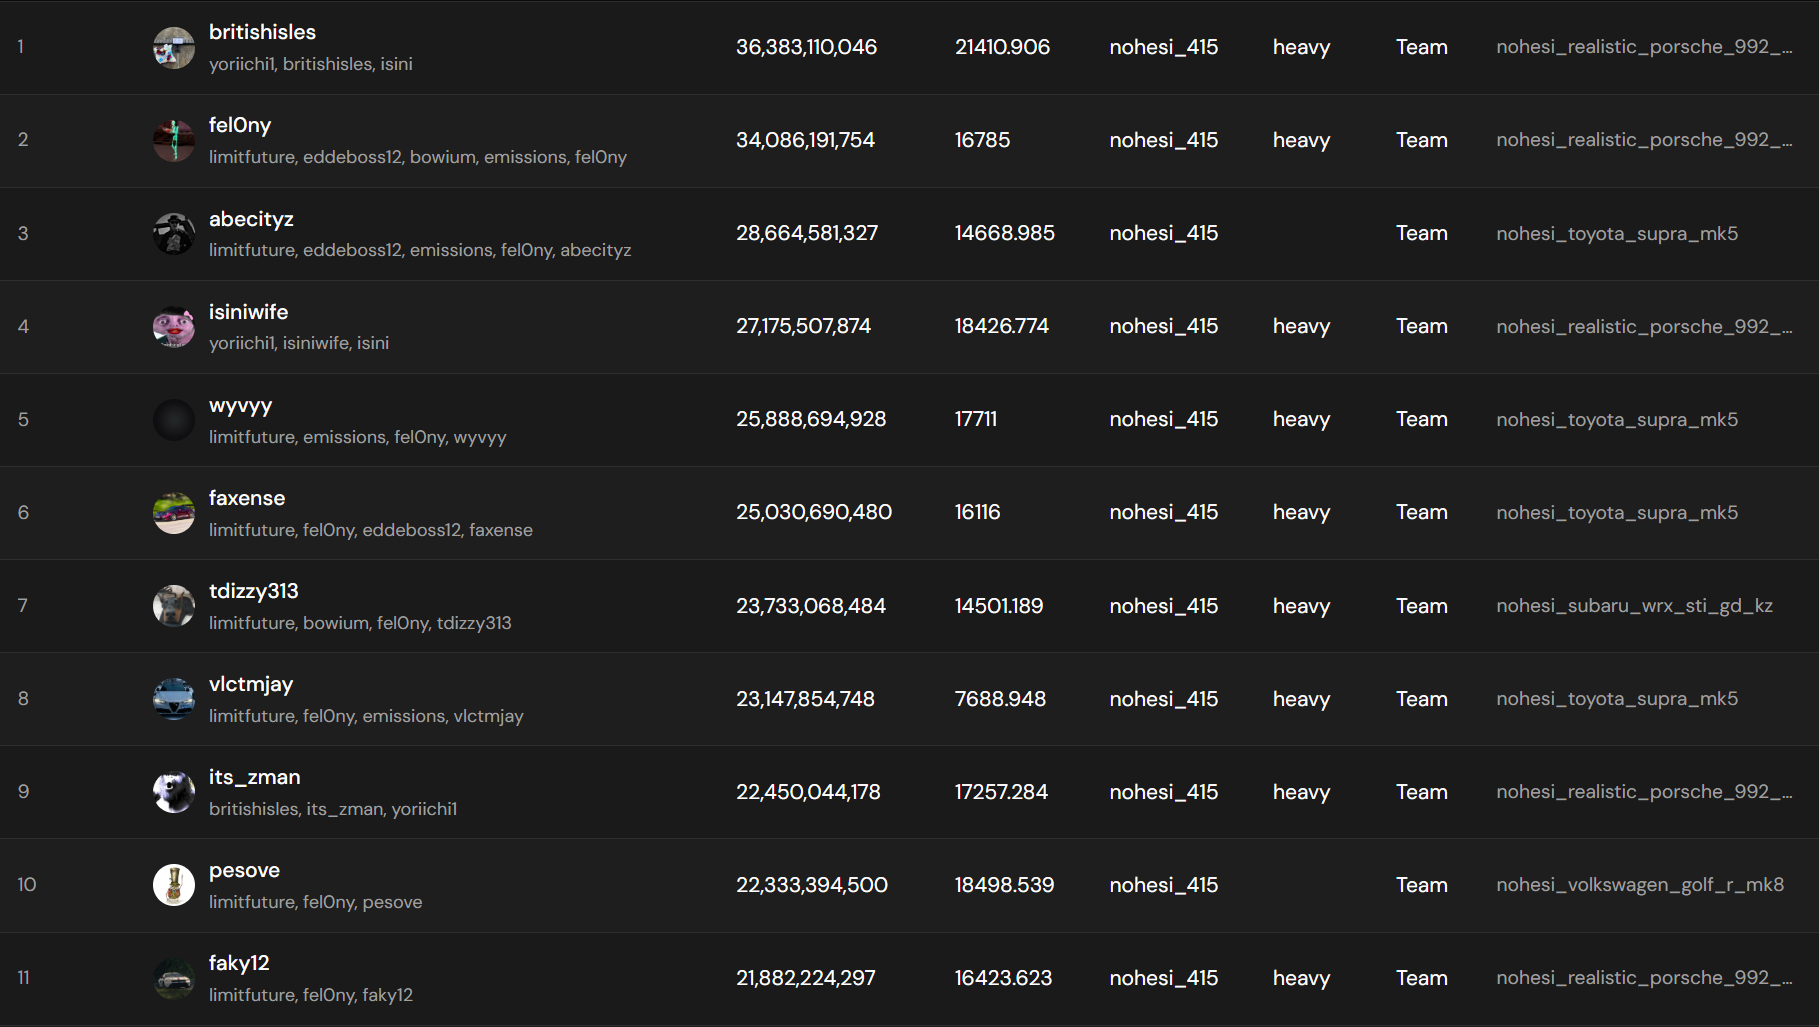
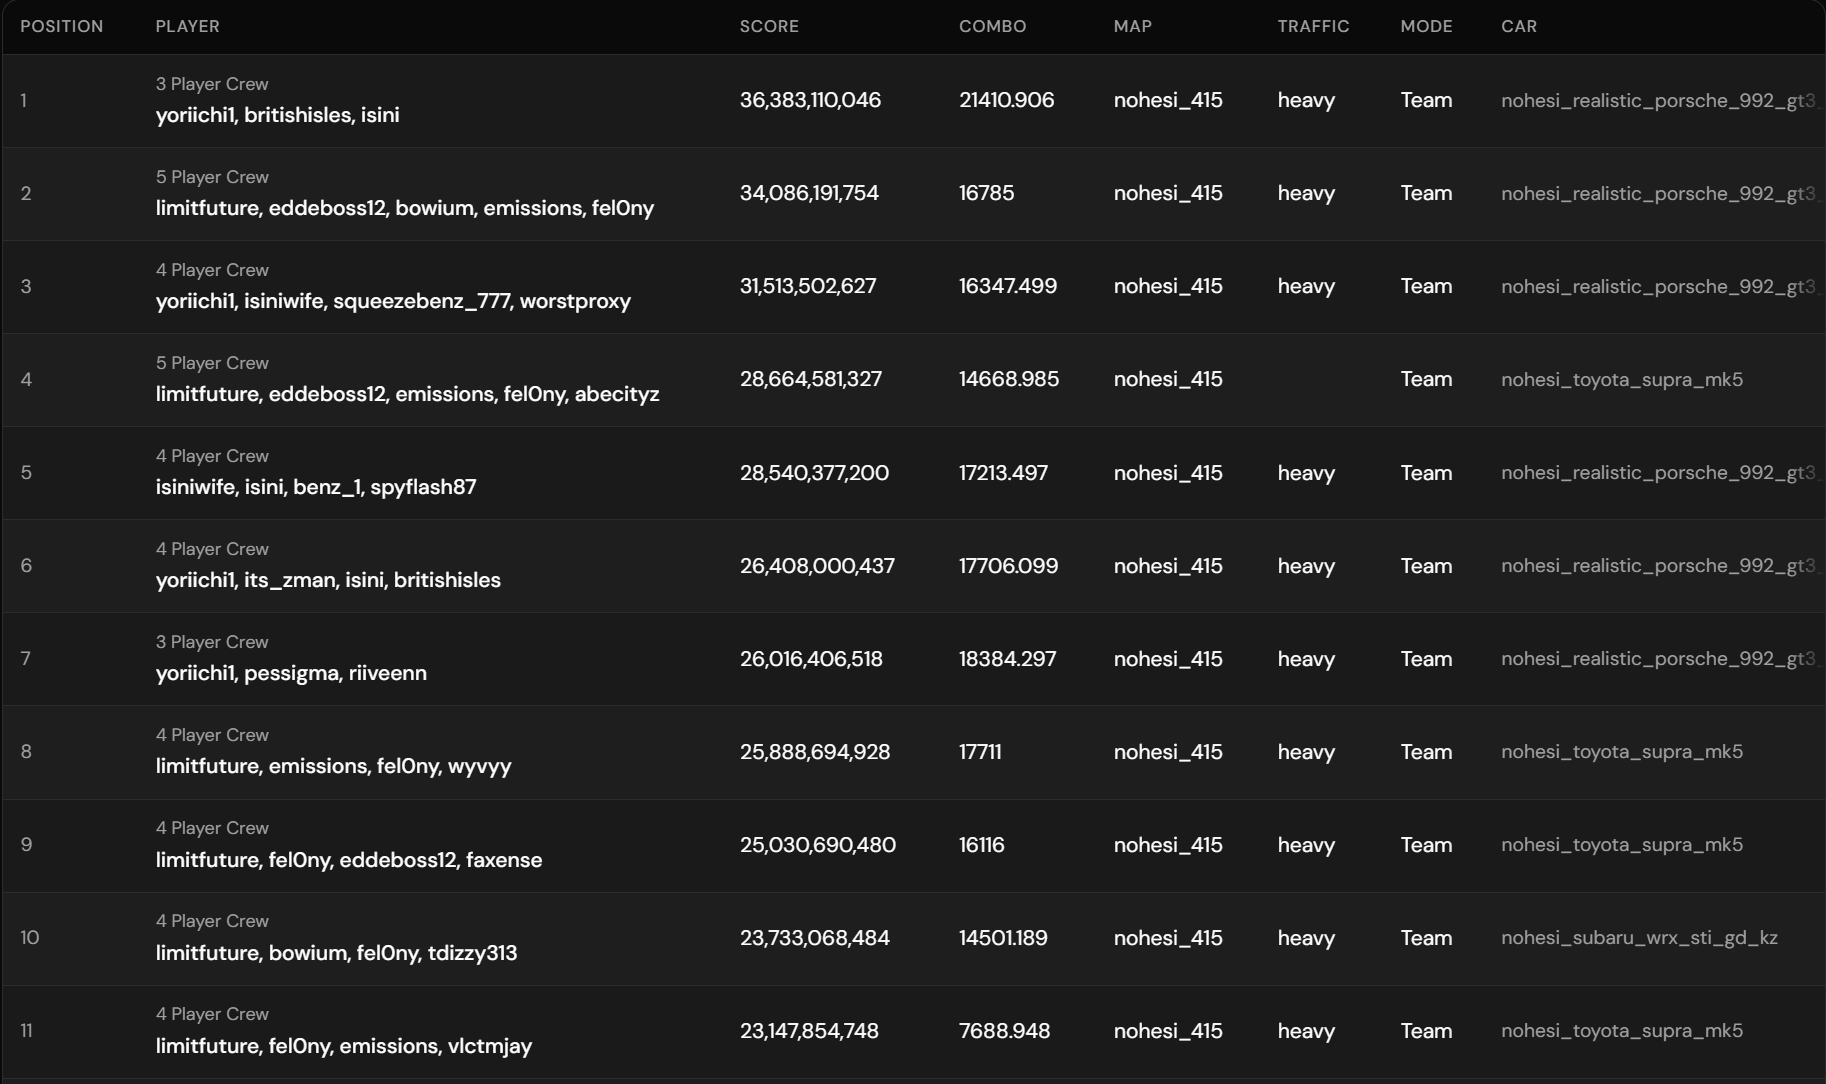
add: Home Page Preview Img

diff --git a/src/routes/+page.svelte b/src/routes/+page.svelte
@@ -4,7 +4,7 @@
       href: '/user-search',
       title: 'User Search',
       description: 'Look up any player by their Steam ID or No Hesi username. See their personal best stats, ranking, tier, and full run history with charts.',
-      image: '/img/example-1.png'
+      image: '/img/UserSearchPreview.png'
     },
     {
       href: '/leaderboard',
@@ -16,13 +16,13 @@
       href: '/littleman-timing',
       title: 'LittleMan Timing',
       description: 'A dedicated timing app for routes around No Hesi',
-      image: '/img/example-2.png'
+      image: '/img/LittleManTimingPreview.png'
     },
     {
       href: '/faq',
       title: 'FAQ',
       description: 'Searchable answers to the most common questions about No Hesi.',
-      image: '/img/example-3.png'
+      image: '/img/FAQPreview.png'
     }
   ];
 </script>
